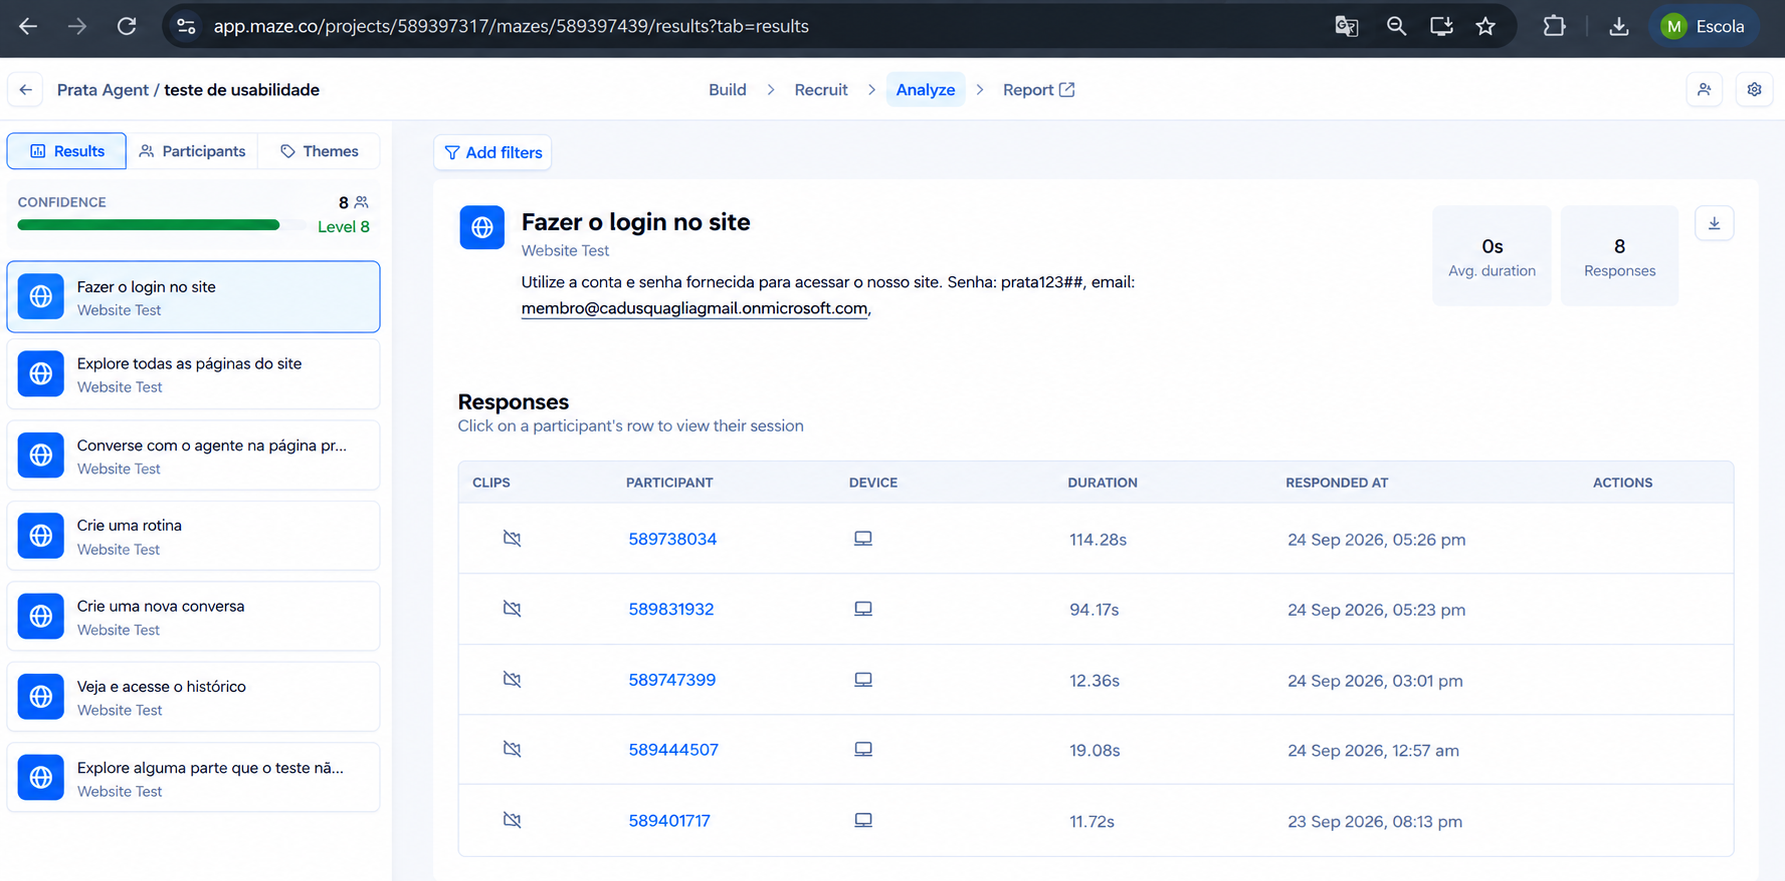
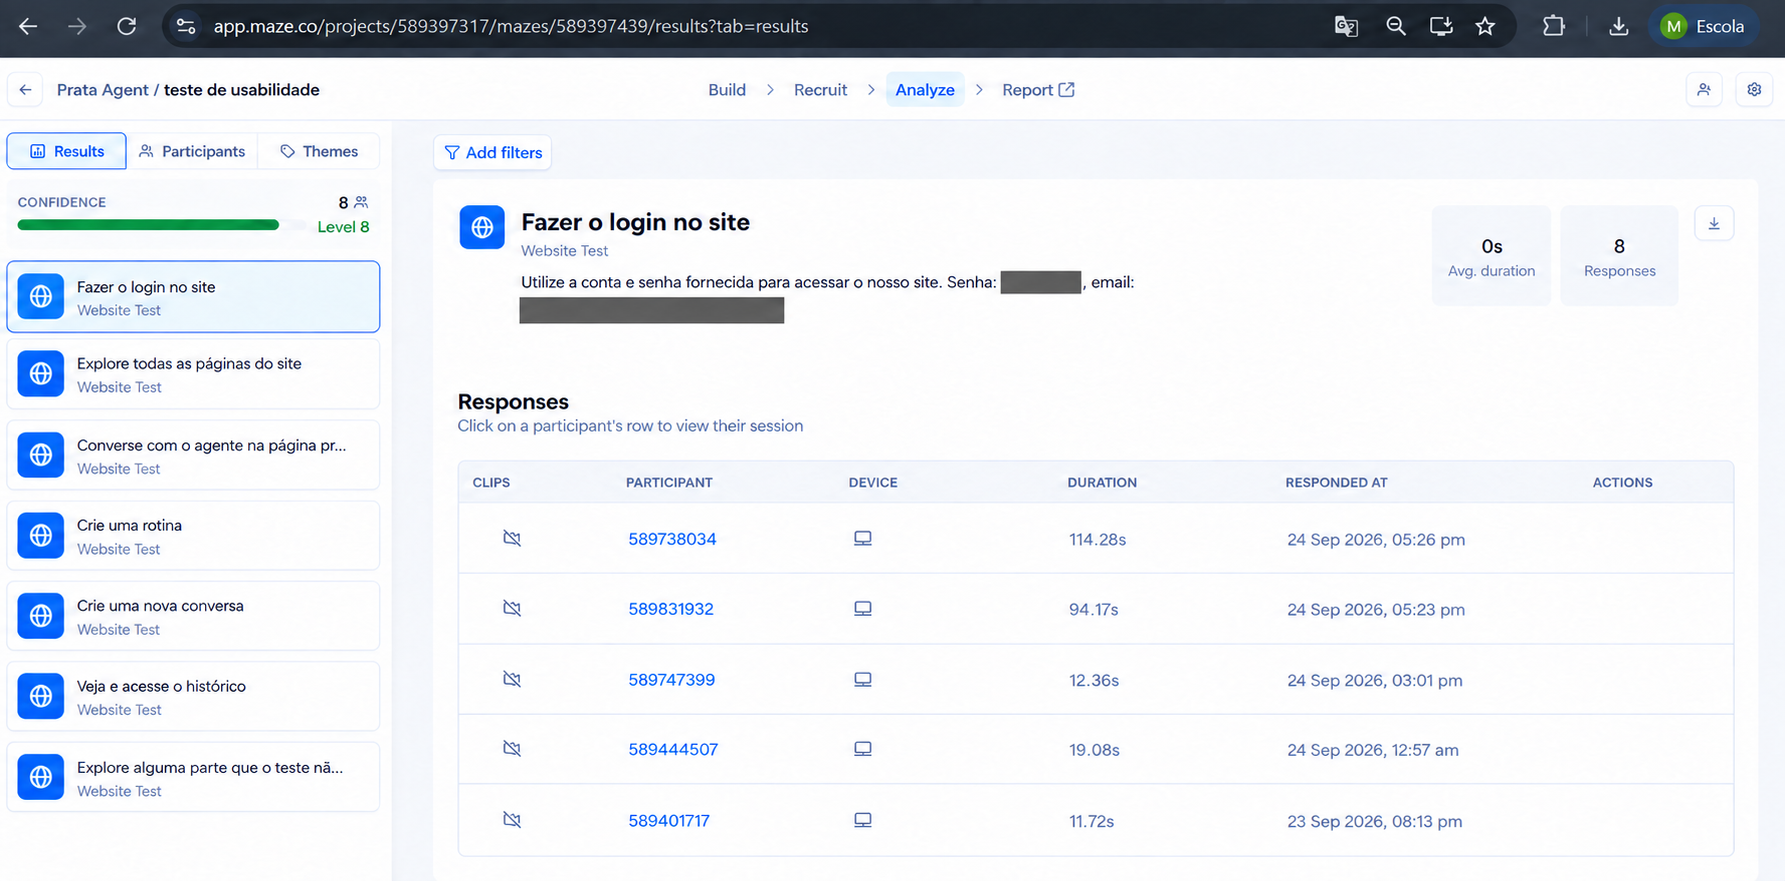
fix: corrigir evidencias dos testes de usabilidade (#429)

diff --git a/docs/Projeto.md b/docs/Projeto.md
@@ -9644,9 +9644,7 @@ O processo de criação seguiu as seguintes etapas:
    - Veja e acesse o histórico
    - Explore alguma parte que o teste não cobriu
 
-2. **Configuração de credenciais:** Para a tarefa de login, foram fornecidas credenciais de teste:
-   - Email: membro@cadusquagliagmail.onmicrosoft.com
-   - Senha: prata123##
+2. **Configuração de credenciais:** Para a tarefa de login, foram fornecidas credenciais temporárias de teste. Os valores foram removidos desta documentação e da captura de tela para evitar a exposição de dados de acesso no repositório.
    - Nível de confiança da tarefa: 8 (em escala de 1-10)
 
    ![Bem-vindo ao Prata Agent](./imagens/bemvindo-maze.png)
@@ -9670,7 +9668,7 @@ O processo de criação seguiu as seguintes etapas:
 As tarefas foram configuradas da seguinte forma:
 
 **Tarefa 1: Fazer o login no site**
-- Descrição: "Utilize uma conta e senha fornecida para acessar o nosso site. Senha: prata123##, email: membro@cadusquagliagmail.onmicrosoft.com"
+- Descrição: "Utilize as credenciais de teste fornecidas para acessar o nosso site."
 - Nível de confiança: 8
 - Tipo: Website Test
 - Dispositivo: Desktop
@@ -9712,6 +9710,8 @@ As tarefas foram configuradas da seguinte forma:
 
 Foram convidados 8 participantes para o teste, todos externos à turma e sem vínculo com o Metrô. Os participantes realizaram as tarefas em dispositivos Desktop durante o período de 23/09/2026 a 24/09/2026.
 
+A captura anexada registra o total de 8 respostas no painel do Maze e exibe cinco linhas de participantes no recorte visível. Por isso, os três identificadores que não aparecem na evidência foram omitidos da tabela abaixo, sem alterar os resultados consolidados.
+
 **Tempo médio por tarefa (amostra parcial):**
 
 | Tarefa | Nível de confiança | Respostas | Duração média | Observações |
@@ -9727,7 +9727,7 @@ Foram convidados 8 participantes para o teste, todos externos à turma e sem ví
 
 #### 10.3.12.5 Resultados de satisfação (SUS)
 
-A pontuação SUS média obtida foi de **72.5 pontos** (escala 0-100), indicando uma percepção de usabilidade acima da média (nota SUS de 68 é considerada média). A pontuação sugere que o protótipo é utilizável, mas apresenta pontos de melhoria claros.
+A pontuação SUS média obtida foi de **71,9 pontos** (escala 0-100), indicando uma percepção de usabilidade acima da média (nota SUS de 68 é considerada média). A pontuação sugere que o protótipo é utilizável, mas apresenta pontos de melhoria claros.
 
 **Distribuição de pontuação por participante:**
 
@@ -9738,11 +9738,11 @@ A pontuação SUS média obtida foi de **72.5 pontos** (escala 0-100), indicando
 | P3 (589747399) | 77 | Bom |
 | P4 (589831932) | 65 | Aceitável |
 | P5 (589738034) | 72 | Aceitável |
-| P6 (não listado) | 78 | Bom |
-| P7 (não listado) | 68 | Aceitável |
-| P8 (não listado) | 70 | Aceitável |
+| P6 (identificador não exibido) | 78 | Bom |
+| P7 (identificador não exibido) | 68 | Aceitável |
+| P8 (identificador não exibido) | 70 | Aceitável |
 
-**Média:** 72.5
+**Média:** 71,9 (`575 / 8 = 71,875`, arredondada para uma casa decimal)
 
 #### 10.3.12.6 Taxa de sucesso por tarefa
 
@@ -9776,7 +9776,7 @@ O teste de usabilidade realizado com Maze forneceu insights valiosos sobre a exp
 
 3. **Criação de rotina é o ponto crítico:** Com apenas 62.5% de sucesso, o fluxo de criação de rotinas precisa ser simplificado e ter instruções mais claras.
 
-4. **Pontuação SUS aceitável:** A média de 72.5 pontos indica que o protótipo é funcional, mas há espaço claro para melhorias, especialmente no fluxo de criação de rotinas.
+4. **Pontuação SUS aceitável:** A média de 71,9 pontos indica que o protótipo é funcional, mas há espaço claro para melhorias, especialmente no fluxo de criação de rotinas.
 
 **Recomendações prioritárias:**
 1. Simplificar o fluxo de criação de rotinas (UX04)
